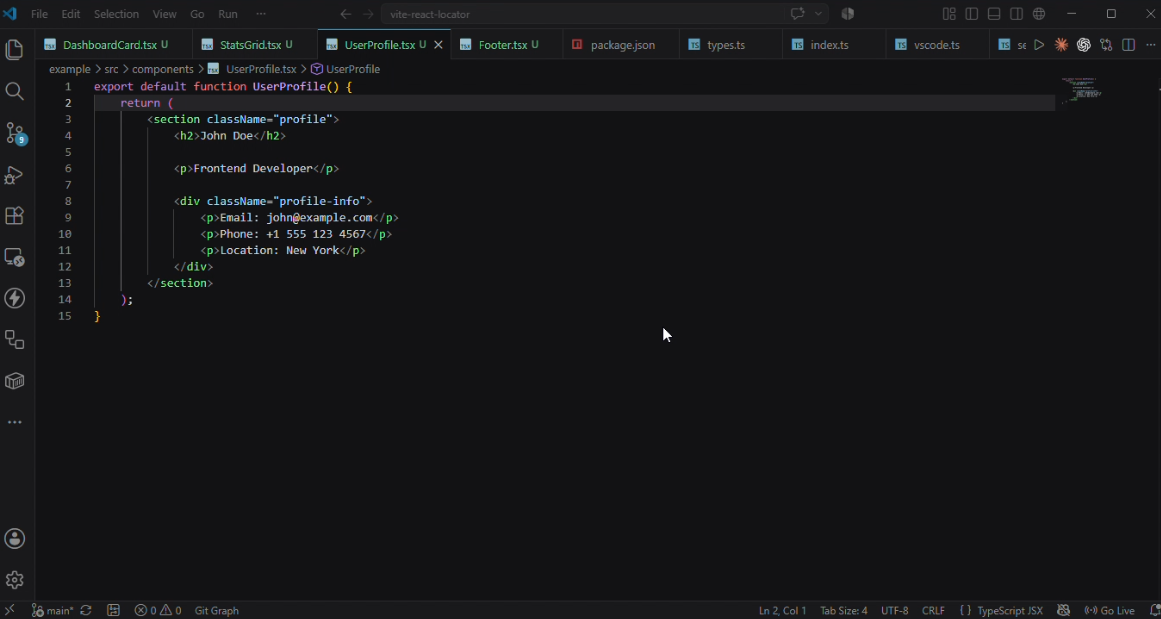
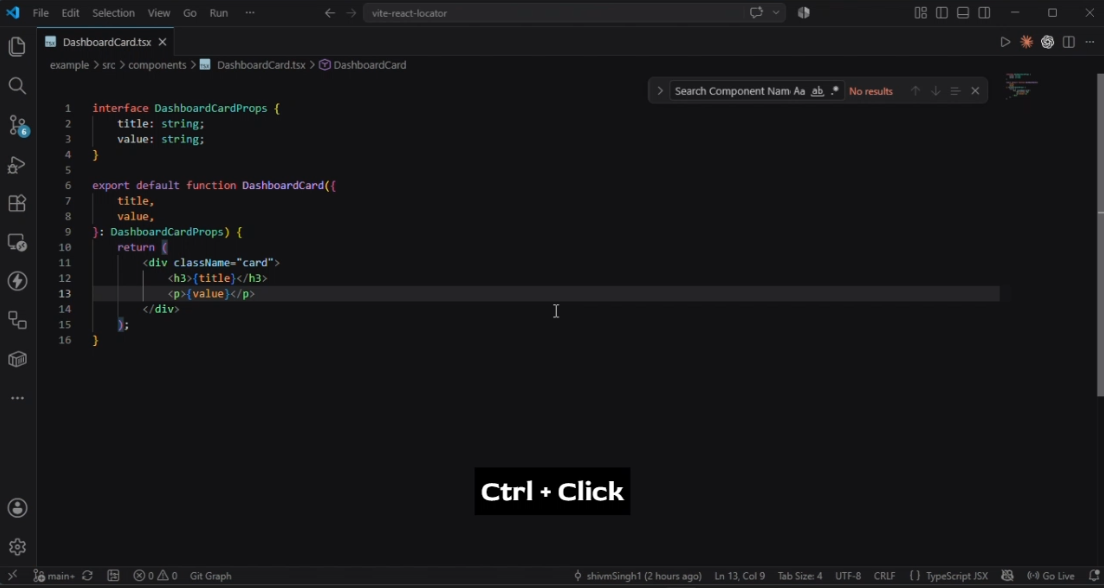
release: prepare v1.1.0

diff --git a/src/analyzer.ts b/src/analyzer.ts
@@ -41,31 +41,52 @@ export function analyzeAst(ast: t.File, id: string): FileMetadata {
 			},
 		},
 
-		ReturnStatement(path: NodePath<t.ReturnStatement>) {
-			const argument = path.node.argument;
+		// ReturnStatement(path: NodePath<t.ReturnStatement>) {
+		// 	const argument = path.node.argument;
 
-			if (!argument) return;
+		// 	if (!argument) return;
 
-			if (t.isJSXElement(argument)) {
-				const openingElement = argument.openingElement;
+		// 	if (t.isJSXElement(argument)) {
+		// 		const openingElement = argument.openingElement;
 
-				const locatorId = `root_${idCounter++}`;
+		// 		const locatorId = `root_${idCounter++}`;
 
-				registry.set(locatorId, {
-					id: locatorId,
-					component: currentComponent,
-					file: id,
-					line: path.node.loc?.start.line ?? 0,
-					column: path.node.loc?.start.column ?? 0,
-				});
+		// 		registry.set(locatorId, {
+		// 			id: locatorId,
+		// 			component: currentComponent,
+		// 			file: id,
+		// 			line: path.node.loc?.start.line ?? 0,
+		// 			column: path.node.loc?.start.column ?? 0,
+		// 		});
 
-				openingElement.attributes.push(
-					t.jsxAttribute(
-						t.jsxIdentifier("data-locator-id"),
-						t.stringLiteral(locatorId)
-					)
-				);
-			}
+		// 		openingElement.attributes.push(
+		// 			t.jsxAttribute(
+		// 				t.jsxIdentifier("data-locator-id"),
+		// 				t.stringLiteral(locatorId)
+		// 			)
+		// 		);
+		// 	}
+		// },
+
+		JSXOpeningElement(path: NodePath<t.JSXOpeningElement>) {
+			if (!currentComponent) return;
+
+			const locatorId = `node_${idCounter++}`;
+
+			registry.set(locatorId, {
+				id: locatorId,
+				component: currentComponent,
+				file: id,
+				line: path.node.loc?.start.line ?? 0,
+				column: path.node.loc?.start.column ?? 0,
+			});
+
+			path.node.attributes.push(
+				t.jsxAttribute(
+					t.jsxIdentifier("data-locator-id"),
+					t.stringLiteral(locatorId)
+				)
+			);
 		}
 	});
 

diff --git a/example/src/components/StatsGrid.tsx b/example/src/components/StatsGrid.tsx
@@ -1,11 +1,23 @@
 import DashboardCard from "./DashboardCard";
-
+const stats = [
+	{ title: "Orders", value: "1,250" },
+	{ title: "Users", value: "542" },
+	{ title: "Revenue", value: "$18,540" },
+	{ title: "Products", value: "320" },
+	{ title: "Reviews", value: "1,850" },
+	{ title: "Returns", value: "42" },
+];
 export default function StatsGrid() {
+
 	return (
 		<section className="stats-grid">
-			<DashboardCard title="Orders" value="1,250" />
-			<DashboardCard title="Users" value="542" />
-			<DashboardCard title="Revenue" value="$18,540" />
+			{stats.map((item) => (
+				<DashboardCard
+					key={item.title}
+					title={item.title}
+					value={item.value}
+				/>
+			))}
 		</section>
 	);
 }

diff --git a/example/src/components/UserProfile.tsx b/example/src/components/UserProfile.tsx
@@ -1,14 +1,21 @@
 export default function UserProfile() {
+	const userInfo = [
+		{ label: "Email", value: "john@example.com" },
+		{ label: "Phone", value: "+1 555 123 4567" },
+		{ label: "Location", value: "New York" },
+		{ label: "Department", value: "Engineering" },
+	];
 	return (
 		<section className="profile">
 			<h2>John Doe</h2>
-
 			<p>Frontend Developer</p>
 
 			<div className="profile-info">
-				<p>Email: john@example.com</p>
-				<p>Phone: +1 555 123 4567</p>
-				<p>Location: New York</p>
+				{userInfo.map((item) => (
+					<p key={item.label}>
+						<strong>{item.label}:</strong> {item.value}
+					</p>
+				))}
 			</div>
 		</section>
 	);

diff --git a/README.md b/README.md
@@ -2,7 +2,7 @@
 
 # 🚀 vite-react-locator
 
-### Instantly jump from your browser to the source code of any React component.
+### Instantly jump from your browser to the exact source location of any JSX element.
 
 **Default:** Ctrl + Click • **Fully configurable**
 
@@ -18,7 +18,7 @@
 
 </p>
 
-A lightweight Vite plugin that lets you hover React components, inspect their source location, and jump directly to the component file in your editor.
+A lightweight Vite plugin that lets you hover any JSX element, inspect its source location, and jump directly to the exact line in your editor.
 
 No browser extensions required.
 
@@ -38,15 +38,15 @@ No browser extensions required.
 
 - ⚡ Lightweight and fast
 - ⚛ Works with React + Vite
-- 🔍 Detects React components automatically
+- 🔍 Detects any JSX element automatically
 - 🟦 Beautiful hover overlay
 - ⚡ No browser extensions required
-- 🔥 Opens components at the exact source location
+- 🔥 Opens the exact source location of the hovered JSX element
 - 💬 Tooltip showing:
   - Component name
   - File name
   - Line number
-- 🖱 **Ctrl + Click** opens the component in VS Code
+- 🖱 **Ctrl + Click** opens the hovered JSX element in VS Code
 - ⌨ Configurable activation key
 - 🚀 Babel AST based transformation
 - 📝 TypeScript support
@@ -58,7 +58,7 @@ No browser extensions required.
 
 # 📸 Demo
 
-## Hover any React component
+## Hover any JSX element
 
 <p align="center">
 <img src="./assets/hover.png" width="500">
@@ -177,9 +177,9 @@ If no activation key is specified, **Ctrl** is used by default.
 # 🎯 How to Use
 
 1. Hold the configured activation key (default: **Ctrl**).
-2. Hover over any React component.
+2. Hover over any JSX element.
 3. A blue overlay and tooltip will appear.
-4. Click the component.
+4. Click the highlighted element.
 5. It opens instantly in your editor.
 
 ---
@@ -190,32 +190,18 @@ Suppose your application contains
 
 ```tsx
 function LoginButton() {
-    return <button>Login</button>;
+    return (
+        <button>
+            <span>Login</span>
+        </button>
+    );
 }
 ```
 
-Move your mouse over the button while holding **Ctrl**.
+Hover over the `<button>` or the `<span>` while holding **Ctrl**.
 
-You will see
+The hovered JSX element is highlighted, and **Ctrl + Click** opens its exact source location in VS Code.
 
-```
-LoginButton
-LoginButton.tsx:8
-```
-
-Now press
-
-```
-Ctrl + Click
-```
-
-VS Code instantly opens
-
-```
-src/components/LoginButton.tsx
-```
-
-at the correct line.
 
 ---
 
@@ -231,7 +217,7 @@ Babel AST Transform
 Inject Locator Metadata
         │
         ▼
-Runtime detects hovered component
+Runtime detects hovered JSX element
         │
         ▼
 Tooltip + Overlay
@@ -258,11 +244,11 @@ Inspect Component
 
 ↓
 
-Search Component Name
+Inspect Element
 
 ↓
 
-Search Folder
+Search JSX
 
 ↓
 
@@ -298,18 +284,17 @@ Done ✅
 
 # 🆕
 
-## v1.0.1
+## v1.1.0
 
 ### Added
 
-- ⌨ Configurable activation key
-- 🎯 Support for key combinations
-- 📝 Type-safe activation key configuration
+- 🎯 Locate any JSX element
+- 🖱 Ctrl + Click opens the exact source location of the hovered JSX element
 
-### Changed
+### Improved
 
-- Default activation key is now **Ctrl** instead of **Alt**.
-- Improved Windows browser compatibility by avoiding the native Alt menu behavior.
+- Better source mapping for nested JSX elements
+- More accurate Babel AST transformation
 
 ---
 
@@ -329,15 +314,17 @@ Done ✅
 - [x] Configurable activation key
 - [x] Ctrl as default activation key
 
-## v1.1
+## v1.1.0
 
+- [x] Locate any JSX element
+- [x] Exact source mapping for JSX elements
+- [x] Ctrl + Click opens the exact source location
+
+
+## Future
 - [ ] Cursor support
-- [ ] WebStorm support
-- [ ] VS Code Insiders
+- [ ] VS Code Insiders support
 - [ ] Better tooltip
-
-## v1.2
-
 - [ ] Editor selection
 - [ ] Custom overlay colors
 

diff --git a/CHANGELOG.md b/CHANGELOG.md
@@ -2,6 +2,25 @@
 
 All notable changes to this project will be documented in this file.
 
+---
+
+## 1.1.0
+
+### Added
+
+- Locate any JSX element, not just component roots
+- Hover overlay for all JSX elements
+- Ctrl + Click opens the exact source location of the hovered JSX element
+- Precise source mapping for nested JSX elements
+
+### Improved
+
+- Reworked Babel AST analysis for per-element metadata injection
+- Improved source location accuracy across JSX trees
+- Better developer experience when navigating React applications
+
+---
+
 ## 1.0.1
 
 ### Added
